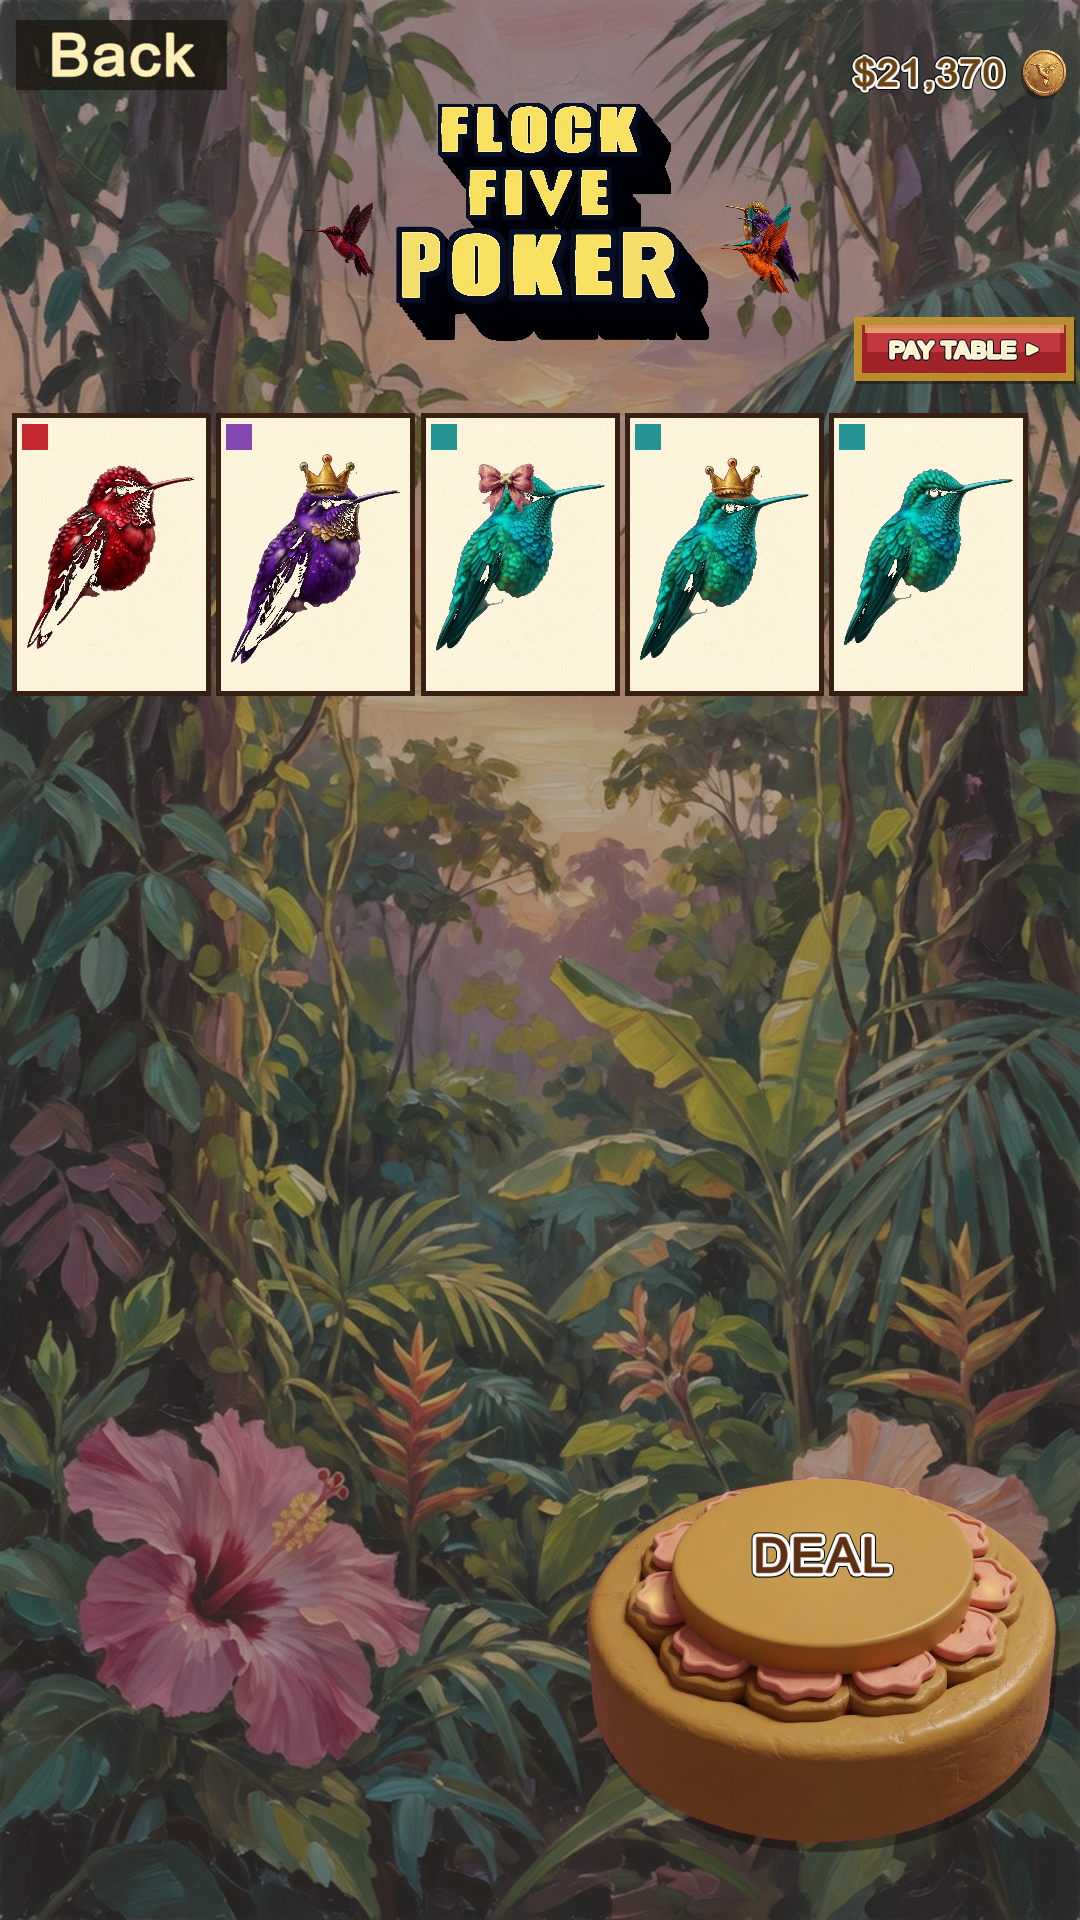
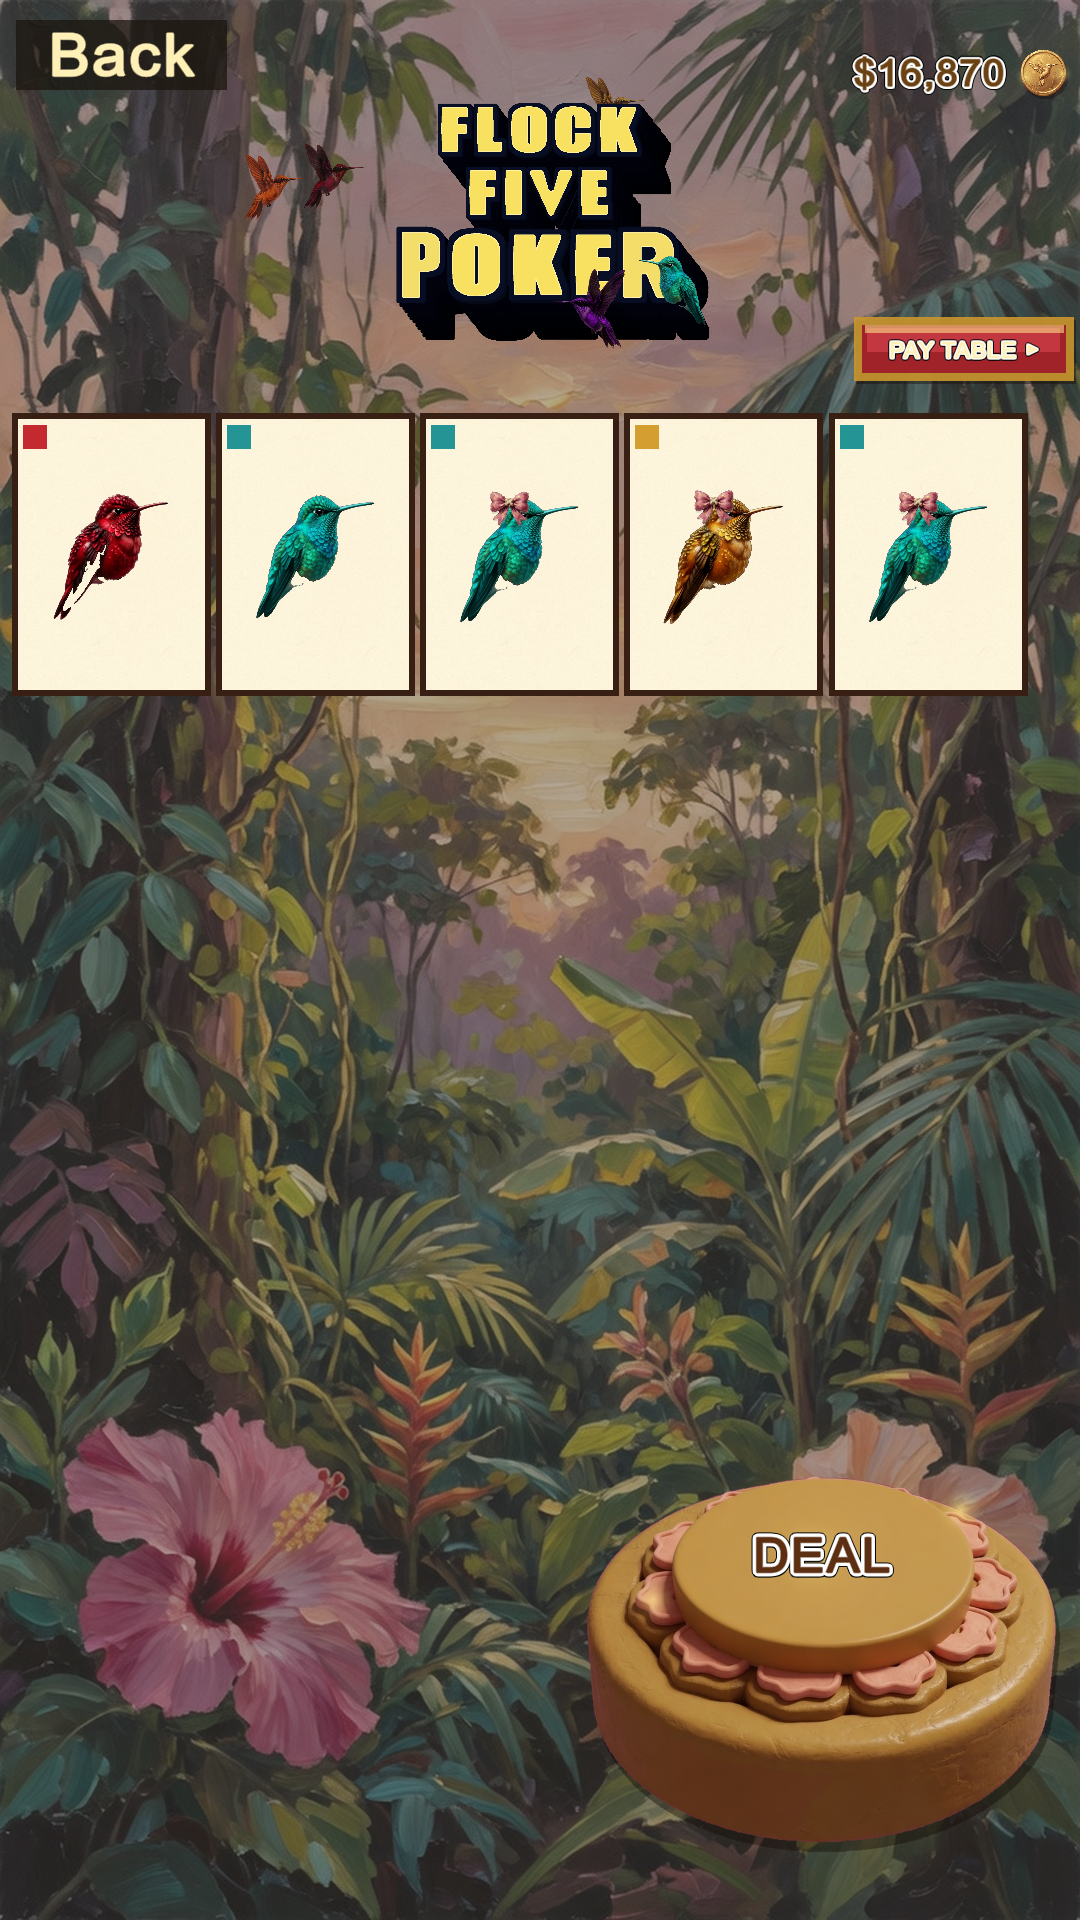
Poker: pass 18 — thumb sole top, HQ fused cards
Cards fill dest (no letterbox through the palm). Fan roll scales
with count so 2-card corners tuck under the pad. Fused faces use
the bird's own alpha at ~1:1 — no key_black holes, crown/bow crisp.
Thumb overlay is the digit only; short nail kept.

Playrun DONE 3/3, mid=0.

diff --git a/Assets/_Project/Scripts/App/FlockFiveApp.cs b/Assets/_Project/Scripts/App/FlockFiveApp.cs
@@ -1011,7 +1011,7 @@ namespace FlockFive
         {
             System.IO.Directory.CreateDirectory(dir);
             SpriteCatalog.DropPokerArt();
-            Debug.Log("Flock Five: ShotPokerFaces start " + dir + " pass17-layers-fusion");
+            Debug.Log("Flock Five: ShotPokerFaces start " + dir + " pass18-layers-hq");
             _home = HomeFace.Poker;
             _splash = true;
             _pokerPayOpen = false;
@@ -5213,7 +5213,8 @@ namespace FlockFive
             if (BirdPoker.Hold[i] || fanCount <= 0)
                 return PokerFanRollAt(i / (float)(BirdPoker.HandSize - 1));
             float t = fanCount <= 1 ? 0.5f : slot / (float)(fanCount - 1);
-            return PokerFanRollAt(t) + PokerAliveBreathe() * 0.40f;
+            float mag = Mathf.Lerp(6f, 16f, (fanCount - 1) / 4f);
+            return Mathf.Lerp(-mag, mag, t) + PokerAliveBreathe() * 0.40f;
         }
 
         float PokerFanRollAt(float t) => Mathf.Lerp(-16f, 16f, t);
@@ -5795,8 +5796,6 @@ namespace FlockFive
             if (Mathf.Abs(roll) > 0.2f)
                 GUIUtility.RotateAroundPivot(roll, rollPivot);
             GUIUtility.ScaleAroundPivot(new Vector2(sx, 1f), r.center);
-            if (fanCard)
-                GUIUtility.ScaleAroundPivot(new Vector2(1f, 1.08f), rollPivot);
             bool wrapChain = held && showFace && chainLive;
             if (wrapChain) DrawPokerChain(r, s, true);
             if (showFace) DrawPokerFace(r, face, s, sparkle);
@@ -5983,8 +5982,11 @@ namespace FlockFive
             var fused = SpriteCatalog.PokerFace(card);
             if (fused != null && fused.texture != null)
             {
+                // Opaque fill so letterbox/alpha cannot show palm through the card.
+                GUI.color = new Color(0.22f, 0.12f, 0.08f, 1f);
+                GUI.DrawTexture(r, Texture2D.whiteTexture);
                 GUI.color = Color.white;
-                GUI.DrawTexture(r, fused.texture, ScaleMode.ScaleToFit, true);
+                GUI.DrawTexture(r, fused.texture, ScaleMode.StretchToFill, true);
                 if (card.Wild)
                 {
                     var inner = new Rect(r.x + 2.6f * s, r.y + 2.6f * s, r.width - 5.2f * s, r.height - 5.2f * s);
